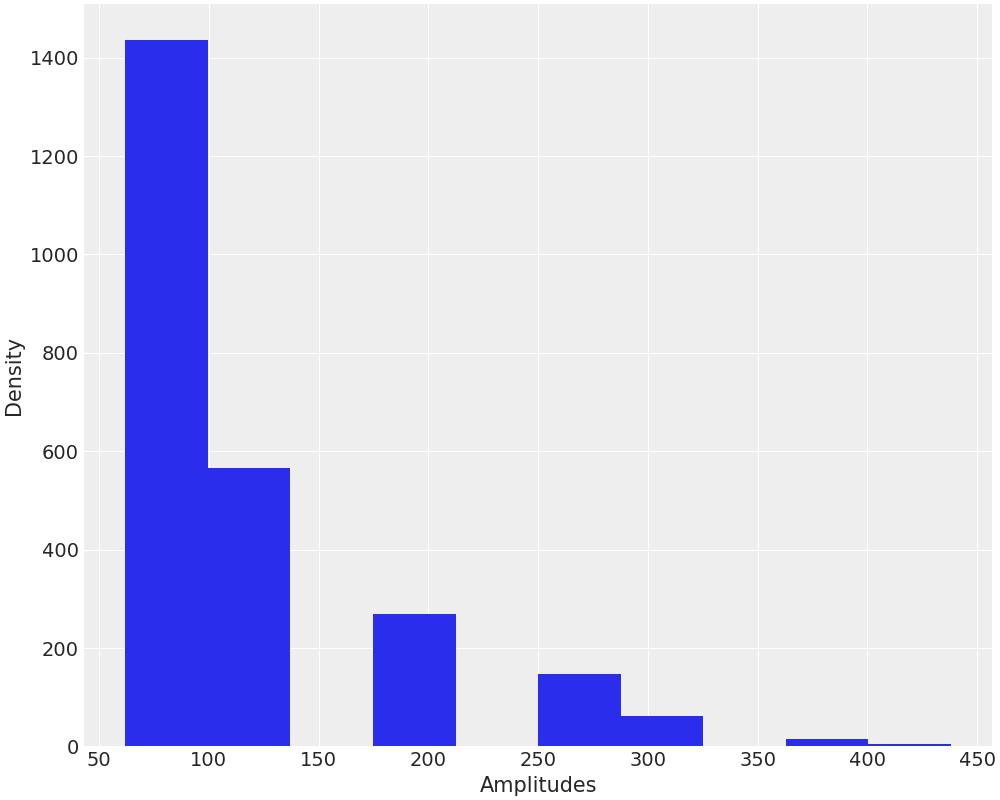
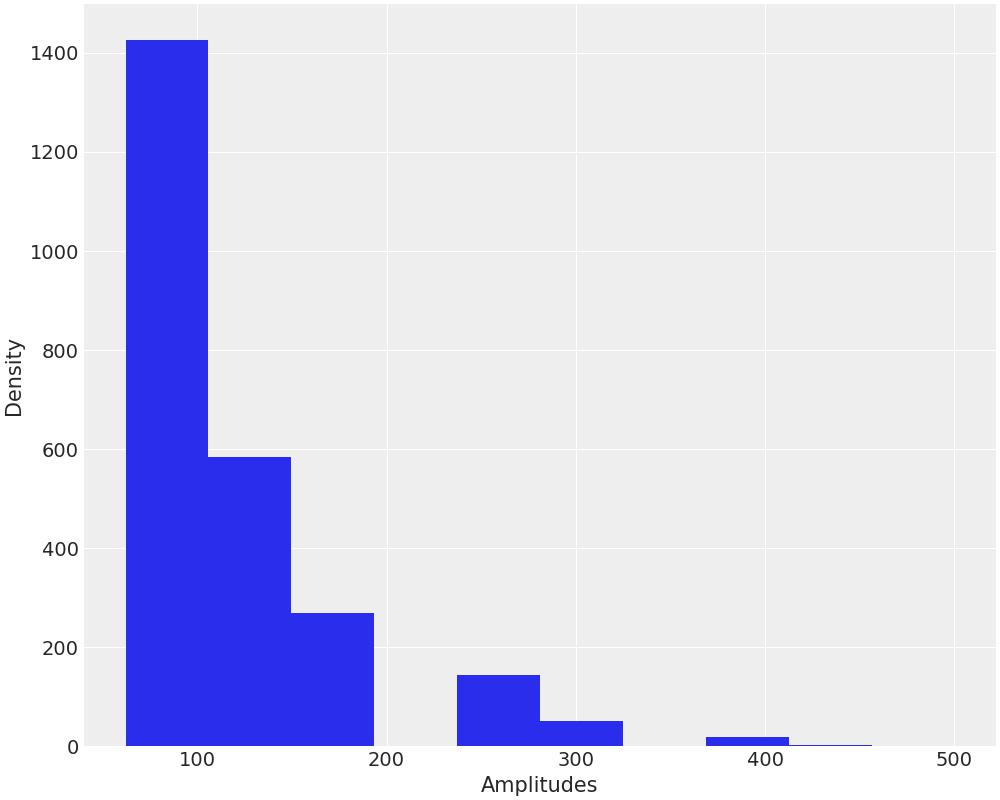
numericalResearch

diff --git a/src/combinedModel.py b/src/combinedModel.py
@@ -3,17 +3,24 @@ import numpy as np
 import pandas as pd
 import matplotlib.pyplot as plt
 import pymc3 as pm
+from pymc3.gp.util import plot_gp_dist
+
 import jax.numpy as jnp
 import jax
 import json
 
-from .damageModelGao import gaoModel
+from .damageModelGao import gaoModel_debug, gaoModel
 from .freqModel import LoadModel
 from .models import WohlerCurve
+
+from jax.config import config
+config.update("jax_debug_nans", True)
 
 
 class npEncoder(json.JSONEncoder):
     def default(self, obj):
+        if isinstance(obj, jnp.DeviceArray):
+            return obj.tolist()
         if isinstance(obj, np.ndarray):
             return obj.tolist()
         if isinstance(obj, np.float32):
@@ -49,31 +56,37 @@ class DamageCalculation:
             self.traceWohler = self.WohlerC.restoreTrace()
             self.traceLoads = self.LoadM.restoreTrace()
 
-    def sampleLoads(self):
+    def sampleLoads(self, ndraws):
         with self.LoadM.amplitude_model:
-            pf_slope = pm.Normal('pf_slope', mu=5, sigma=0.5)
-            loads = pm.Deterministic('Loads', amplitudesToLoads(self.LoadM.loads, pf_slope))
-            self.sample_loads = pm.sample_posterior_predictive(trace=self.traceLoads, var_names=['Loads'])
+            # pf_slope = pm.Normal('pf_slope', mu=5, sigma=0.5) * self.LoadM.maxAmp
+            loads = pm.Deterministic('Loads', amplitudesToLoads(self.LoadM.loads, 1))
+            self.sample_loads = pm.sample_posterior_predictive(trace=self.traceLoads,
+                                                               var_names=['Loads'],
+                                                               samples=ndraws)
+
+        with open(os.path.join(self.loadPath, 'loadSamples.json'), 'w') as file:
+            json.dump(self.sample_loads, file, cls=npEncoder)
 
     def transformGPs(self):
 
         self.meanSamples = jnp.array(self.samples['meanN'])
         self.varianceSamples = jnp.array(self.samples['sigmaN'])
-        self.totalN = jax.vmap(log1exp, in_axes=(0,))(self.meanSamples )+ jax.vmap(jnp.exp, in_axes=(0,))(self.varianceSamples)
+        # self.totalN = jax.vmap(log1exp, in_axes=(0,))(self.meanSamples)+ jax.vmap(jnp.exp, in_axes=(0,))(self.varianceSamples)
+        self.totalN = jax.vmap(log1exp, in_axes=(0,))(self.meanSamples)
 
         self.totalNNotNorm = self.totalN * self.WohlerC.NMax
 
         self.Nsamples = jax.vmap(jnp.exp, in_axes=(0,))(self.totalNNotNorm)
 
     def sampleFatigueLife(self, maxLoads:int):
-        self.cycles, amplitudes = jnp.histogram(self.sample_loads['Loads'].flatten(), bins=maxLoads)
+        self.cycles, self.amplitudes = jnp.histogram(self.sample_loads['Loads'].flatten(), bins=maxLoads)
 
         # Transform to amplitudes and then to 0,1 in Wohler Space
-        amplitudes = amplitudes* self.LoadM.maxAmp/self.WohlerC.SMax
+        self.amplitudes = self.amplitudes* self.LoadM.maxAmp/self.WohlerC.SMax
 
         with self.WohlerC.SNCurveModel:
-            meanN = self.WohlerC.gp_ht.conditional('meanN', Xnew=amplitudes.reshape((-1,1)))
-            sigmaN = self.WohlerC.σ_gp.conditional('sigmaN', Xnew=amplitudes.reshape((-1,1)))
+            meanN = self.WohlerC.gp_ht.conditional('meanN', Xnew=self.amplitudes.reshape((-1,1)))
+            sigmaN = self.WohlerC.σ_gp.conditional('sigmaN', Xnew=self.amplitudes.reshape((-1,1)))
             # totalN = pm.Deterministic('totalN', meanN + sigmaN)
             self.samples = pm.sample_posterior_predictive(self.traceWohler, var_names=['meanN', 'sigmaN'])
 
@@ -85,7 +98,7 @@ class DamageCalculation:
     def restoreFatigueLifeSamples(self, maxLoads):
 
         if os.path.exists(os.path.join(self.wohlerPath, 'lifeSamples.json')):
-            self.cycles, amplitudes = jnp.histogram(self.sample_loads['Loads'], bins=maxLoads)
+            self.cycles, self.amplitudes = jnp.histogram(self.sample_loads['Loads'], bins=maxLoads)
             with open(os.path.join(self.wohlerPath, 'lifeSamples.json'), 'r') as file:
                 samples = json.load(file)
             self.samples = {key:jnp.array(val) for key, val in samples.items()}
@@ -93,12 +106,46 @@ class DamageCalculation:
         else:
             self.sampleFatigueLife(maxLoads=maxLoads)
 
+    def restoreLoadSamples(self, ndraws):
+
+        if os.path.exists(os.path.join(self.loadPath, 'loadSamples.json')):
+            with open(os.path.join(self.loadPath, 'loadSamples.json'), 'r') as file:
+                samples = json.load(file)
+            self.sample_loads = {key:jnp.array(val) for key, val in samples.items()}
+        else:
+            self.sampleLoads(ndraws=ndraws)
+
+
+    def plotFatigueLifeSamples(self):
+        newMean = jax.vmap(log1exp, in_axes=(0,))(self.meanSamples)
+        newVar = jax.vmap(jnp.exp, in_axes=(0,))(self.varianceSamples)
+        _,ax = plt.subplots(4,1, figsize=(12,8))
+        plot_gp_dist(ax[0], self.totalN, self.amplitudes.reshape((-1,1)), palette="bone_r")
+        plot_gp_dist(ax[1], newMean, self.amplitudes.reshape((-1,1)), palette="bone_r")
+        plot_gp_dist(ax[2], newVar, self.amplitudes.reshape((-1,1)), palette="bone_r")
+        plot_gp_dist(ax[3], self.varianceSamples, self.amplitudes.reshape((-1,1)), palette="bone_r")
+
+        ax[0].set_ylabel('Cycles to failure')
+        ax[0].set_xlabel('Amplitudes')
+
+        ax[1].set_ylabel('Mean')
+        ax[2].set_ylabel('Variance')
+        ax[3].set_ylabel('Variance (notTransformed)')
+
+        ax[1].set_xlabel('Amplitudes')
+        ax[2].set_xlabel('Amplitudes')
+        ax[3].set_xlabel('Amplitudes')
+        plt.savefig(os.path.join(self.wohlerPath, 'newSamples.jpg'))
+        plt.close()
+
     def calculateDamage(self):
 
         cycles = jnp.array(self.cycles)
         Nf = jnp.array(self.Nsamples)
+
         damageFun = jax.vmap(gaoModel, in_axes=(None,0))
         self.damages = damageFun(cycles, Nf)
+
         _, ax = plt.subplots(1,1, figsize=(12,8))
         counts, bins = jnp.histogram(self.damages)
         ax.hist(bins[:-1], bins, weights=counts)
@@ -106,3 +153,33 @@ class DamageCalculation:
         plt.close()
 
         return self.damages
+
+    def calculateDamage_debug(self):
+
+        cycles = jnp.array(self.cycles)
+        Nf = jnp.array(self.Nsamples)
+
+        self.damages = np.zeros_like(self.Nsamples.tolist())
+        new_arr = np.array(self.Nsamples.tolist())
+        lnNew = np.array(self.totalN.tolist())
+
+        for i, (N, lnN) in enumerate(zip(new_arr, lnNew)):
+            self.damages[i] = gaoModel_debug(cycles, N, lnN)
+
+        # _, ax = plt.subplots(1,1, figsize=(12,8))
+        # counts, bins = jnp.histogram(self.damages)
+        # ax.hist(bins[:-1], bins, weights=counts)
+        # plt.savefig(os.path.join(self.wohlerPath, 'damageHist.jpg'))
+        # plt.close()
+
+        return self.damages
+
+    def sample_model(self, model:str, ndraws):
+        if model == 'wohler':
+            self.WohlerC.sampleModel(ndraws)
+            self.WohlerC.samplePosterior()
+            self.WohlerC.plotGP()
+
+        elif model == 'loads':
+            self.LoadM.sampleModel(ndraws)
+

diff --git a/src/models.py b/src/models.py
@@ -17,6 +17,9 @@ def logistic(x, a, x0, c):
     # a is the slope, x0 is the location
     return c *(1 - pm.math.invlogit(a * (x - x0)))
 
+def log1exp(arr:jnp.ndarray):
+    return jnp.log(1+jnp.exp(arr))
+
 class WohlerCurve:
 
     def __init__(self, resultsFolder:str,
@@ -60,12 +63,13 @@ class WohlerCurve:
             ℓ = pm.Gamma("ℓ", mu=ℓ_μ, sigma=ℓ_σ)
             η = pm.Gamma("η", alpha=2, beta=1)
 
-            x0 = pm.Gamma("x0", alpha=2, beta=1)
-            a = pm.Gamma("a", alpha=2, beta=1)
-            c = pm.Gamma("c", alpha=2, beta=1)
+            # x0 = pm.Gamma("x0", alpha=2, beta=1)
+            # a = pm.Gamma("a", alpha=2, beta=1)
+            # c = pm.Gamma("c", alpha=2, beta=1)
 
-            cov_base = η ** 2 * pm.gp.cov.Exponential(input_dim=1, ls=ℓ) + pm.gp.cov.WhiteNoise(sigma=1e-6)
-            cov = pm.gp.cov.ScaledCov(1, scaling_func=logistic, args=(a, x0, c), cov_func=cov_base)
+            # cov_base = η ** 2 * pm.gp.cov.Exponential(input_dim=1, ls=ℓ) + pm.gp.cov.WhiteNoise(sigma=1e-6)
+            cov = η ** 2 * pm.gp.cov.Exponential(input_dim=1, ls=ℓ) + pm.gp.cov.WhiteNoise(sigma=1e-6)
+            # cov = pm.gp.cov.ScaledCov(1, scaling_func=logistic, args=(a, x0, c), cov_func=cov_base)
 
             self.gp_ht = pm.gp.Latent(cov_func=cov)
             mu_f = self.gp_ht.prior("mu_f", X=S)
@@ -105,6 +109,8 @@ class WohlerCurve:
 
     def samplePosterior(self):
 
+        self.restoreTrace()
+
         with self.SNCurveModel:
             NNew = self.gp_ht.conditional("NNew", Xnew=self.SNew)
             lg_σ_f_pred = self.σ_gp.conditional("log_σ_f_pred", Xnew=self.SNew)
@@ -123,7 +129,7 @@ class WohlerCurve:
 
         S = self.S.reshape((-1,1))
 
-        with open(os.path.join(self.resultsFolder, 'lifeSamples.json'),'r') as file:
+        with open(os.path.join(self.resultsFolder, 'samples.json'),'r') as file:
             y_samples = json.load(file)
 
         y_samples = {key:jnp.array(val) for key, val in y_samples.items()}
@@ -151,13 +157,15 @@ class WohlerCurve:
 
         _, axs = plt.subplots(1, 2, figsize=(12, 8))
 
-        plot_gp_dist(axs[0], y_samples['NNew'], self.SNew[:,None], palette="bone_r")
+        newMean = vmap(log1exp, in_axes=(0,))(y_samples['NNew'])
+
+        plot_gp_dist(axs[0], newMean, self.SNew[:,None], palette="bone_r")
         axs[0].scatter(self.S, self.log_N, label="Experimental Data")
         axs[0].set_xlabel('Stress/MaxStress')
         axs[0].set_ylabel('log(N)/max(log(N))')
         print(y_samples["log_σ_f_pred"].shape)
         print(self.SNew.shape)
-        plot_gp_dist(axs[1], y_samples["log_σ_f_pred"], self.SNew[:,None])
+        plot_gp_dist(axs[1], σ_samples, self.SNew[:,None])
         axs[1].set_xlabel('Stress/MaxStress')
         axs[1].set_ylabel('Calculated Variance')
         plt.savefig(os.path.join(self.resultsFolder,'GPDist.jpg'))

diff --git a/src/damageModelGao.py b/src/damageModelGao.py
@@ -7,14 +7,48 @@ import jax.numpy as jnp
 
 @partial(jit, static_argnums=0)
 def inner(k, n_i:jnp.DeviceArray ,N_i:jnp.DeviceArray)->jnp.float32:
+
     if k == 0:
-        return jnp.asarray((1-n_i[k]/N_i[k])**(jnp.log(N_i[k+1])/jnp.log(N_i[k])))
+        exponent = jnp.true_divide(jnp.log(N_i[k+1]),jnp.log(N_i[k]))
+        nNi = jnp.true_divide(n_i[k],N_i[k])
+        return jnp.asarray((1-nNi)**(exponent))
+
     else:
-        return jnp.asarray((inner(k-1, n_i, N_i)-n_i[k]/N_i[k])**(jnp.log(N_i[k+1])/jnp.log(N_i[k])))
+        exponent = jnp.true_divide(jnp.log(N_i[k+1]),jnp.log(N_i[k]))
+        nNi = jnp.true_divide(n_i[k],N_i[k])
+        return jnp.asarray((inner(k-1, n_i, N_i)-nNi)**(exponent))
 
 def gaoModel(n_i:jnp.DeviceArray, N_i:jnp.DeviceArray)->jnp.DeviceArray:
     totalN = len(n_i)-1
     # inner_ = vmap(inner, in_axes=(None, None, 0))
 
-    return jnp.asarray(-1/(jnp.log(N_i[-1])) * (inner(totalN-1, n_i, N_i)-n_i[-1]/N_i[-1]))
+    nNi = jnp.true_divide(n_i[-1],N_i[-1])
+    print('outer nNi', nNi)
+    return jnp.asarray(-1/(jnp.log(N_i[-1])) * (inner(totalN-1, n_i, N_i)-nNi))
+
+def inner_debug(k, n_i:jnp.DeviceArray ,N_i:jnp.DeviceArray, lnN_i)->jnp.float32:
+
+    if k == 0:
+        # exponent = np.true_divide(np.log(N_i[k+1]),np.log(N_i[k]))
+        exponent = np.true_divide(lnN_i[k+1],lnN_i[k])
+        nNi = np.true_divide(n_i[k],N_i[k])
+        print('nNi->', nNi)
+        print('exponent->', exponent)
+        return np.power(1-nNi,exponent)
+
+    else:
+        # exponent = np.true_divide( np.log(N_i[k+1]),np.log(N_i[k]))
+        exponent = np.true_divide(lnN_i[k+1],lnN_i[k])
+        nNi = np.true_divide(n_i[k],N_i[k])
+        print('nNi->', nNi)
+        print('exponent->', exponent)
+        return np.power(inner_debug(k-1, n_i, N_i, lnN_i)-nNi,exponent)
+
+def gaoModel_debug(n_i:jnp.DeviceArray, N_i:jnp.DeviceArray, lnN_i)->jnp.DeviceArray:
+    totalN = len(n_i)-1
+    # inner_ = vmap(inner, in_axes=(None, None, 0))
+
+    nNi = n_i[-1]/N_i[-1]
+    print('outer nNi', nNi)
+    return np.asarray(-1/(lnN_i[-1]) * (inner_debug(totalN-1, n_i, N_i, lnN_i)-nNi))
 

diff --git a/main.py b/main.py
@@ -1,24 +1,14 @@
-from src.models import WohlerCurve
-from src.freqModel import LoadModel
 from src.combinedModel import DamageCalculation
 
 damageCal = DamageCalculation('Results1',
                               loadObserved='data/800369.csv',
                               WohlerObserved='data/SN_curve.mat',
                               loadPath='Results2')
-damageCal.sampleLoads()
+damageCal.restoreLoadSamples(ndraws=20000)
 # Re sample posterior to plot properly
-# damageCal.WohlerC.plotGP()
+# damageCal.sample_model('wohler', 3000)
+damageCal.WohlerC.samplePosterior()
+damageCal.WohlerC.plotGP()
 damageCal.restoreFatigueLifeSamples(maxLoads=50)
-damages = damageCal.calculateDamage()
-
-# fatigue = LoadModel(resultsFolder='Results2', observedDataPath='data/800356.csv', b_mean=-0.1)
-# fatigue.buildMixtureFreqModel()
-# fatigue.sampleModel(3000)
-# fatigue.samplePosterior()
-
-# damage = DamageCalculation('Results1', 'data/SN_curve.mat')
-# damage.build_HeteroskedasticModel()
-# damage.sampleModel(2000)
-# damage.samplePosterior()
-# damage.plotGP()
+damageCal.plotFatigueLifeSamples()
+damages = damageCal.calculateDamage_debug()
